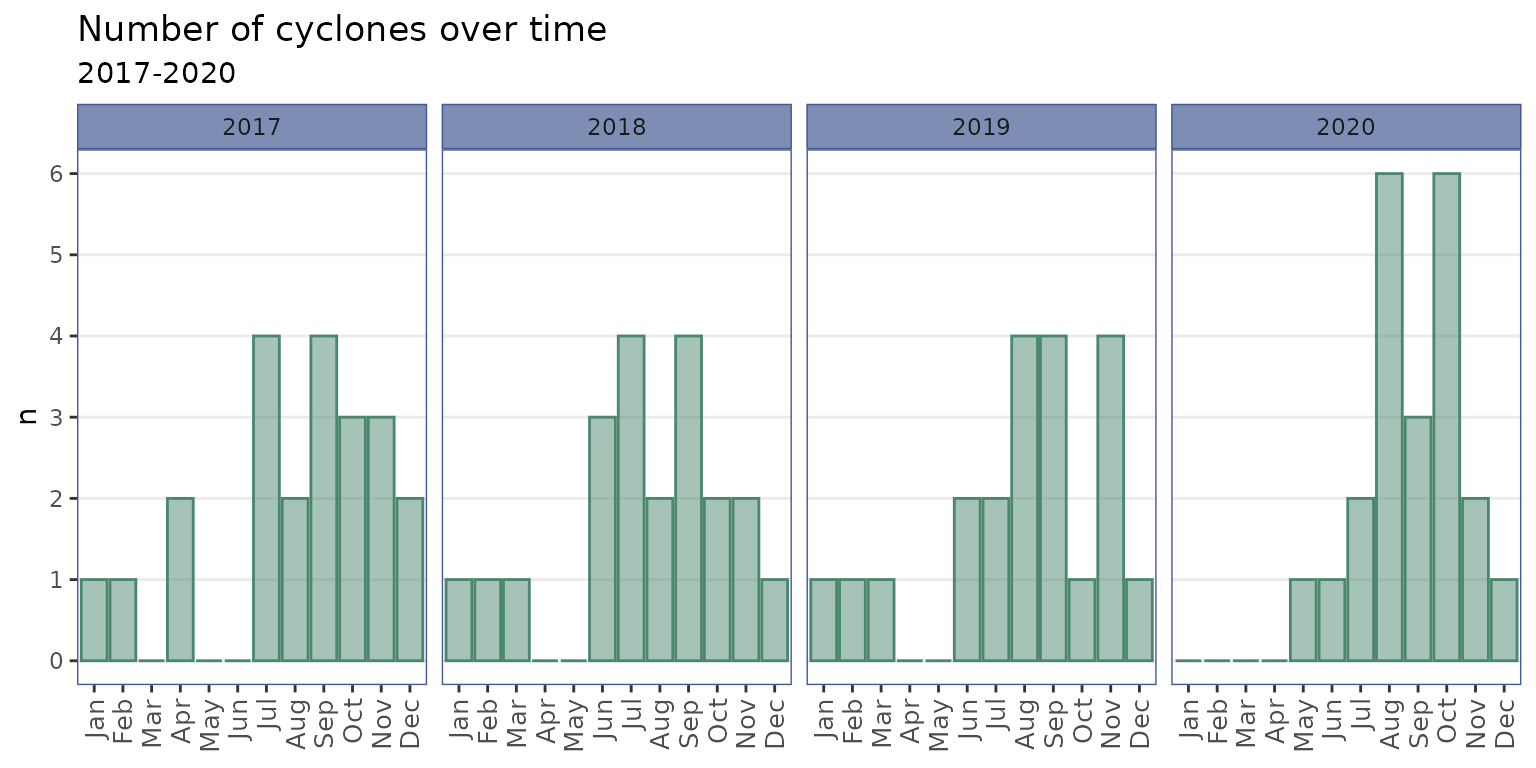
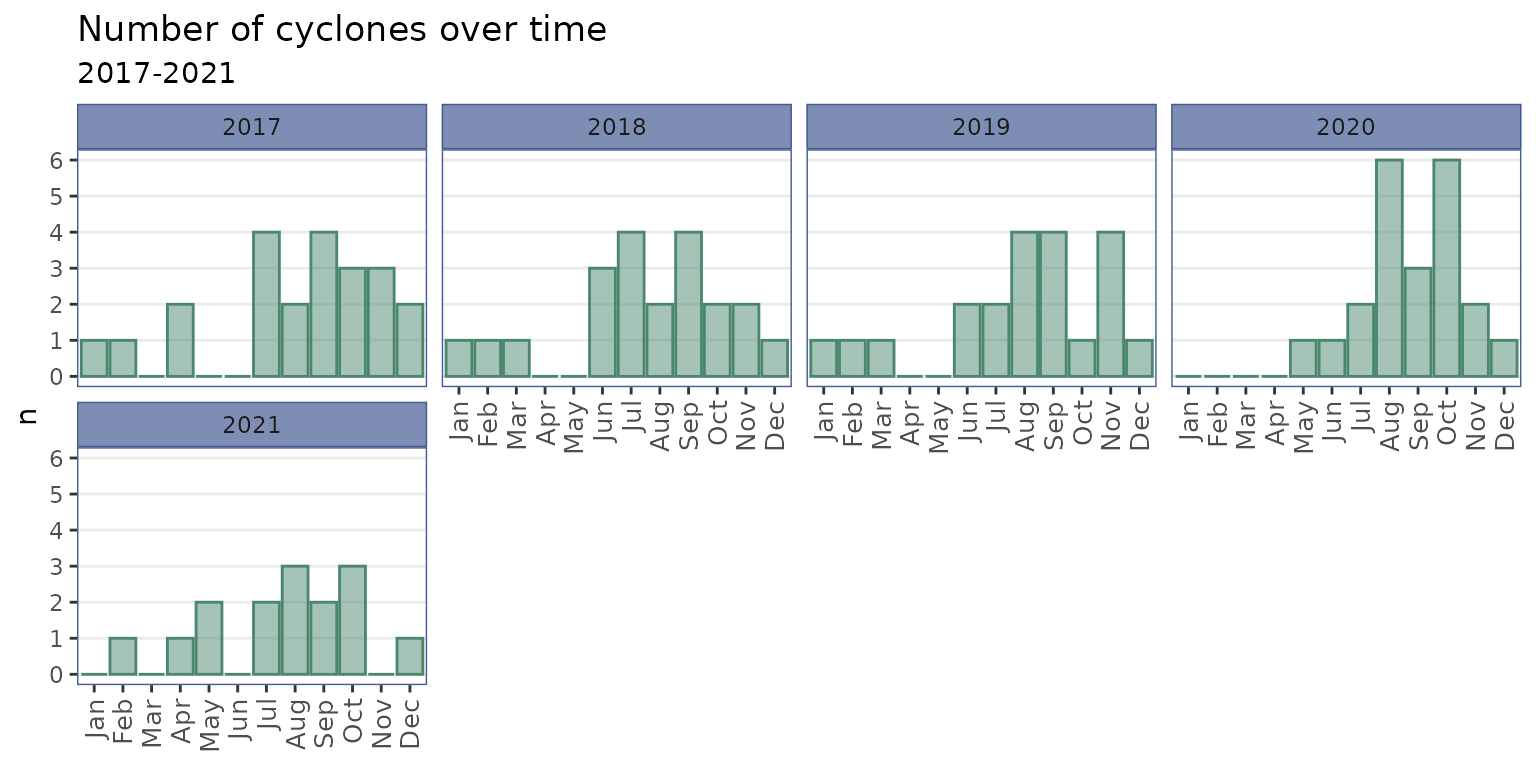
Deploying to gh-pages from @ panukatan/bagyo@0b04d9e236ba5311cccd494a6376987408167831 🚀

diff --git a/dev/articles/visualisation.html b/dev/articles/visualisation.html
@@ -99,7 +99,7 @@ those using the <code>tidyverse</code> packages.</p>
 <span>  <span class="fu"><a href="https://dplyr.tidyverse.org/reference/group_by.html" class="external-link">group_by</a></span><span class="op">(</span><span class="va">year</span><span class="op">)</span> <span class="op">|&gt;</span></span>
 <span>  <span class="fu"><a href="https://tidyr.tidyverse.org/reference/complete.html" class="external-link">complete</a></span><span class="op">(</span><span class="va">category_name</span><span class="op">)</span> <span class="op">|&gt;</span></span>
 <span>  <span class="fu"><a href="https://dplyr.tidyverse.org/reference/group_by.html" class="external-link">ungroup</a></span><span class="op">(</span><span class="op">)</span></span>
-<span><span class="co">#&gt; <span style="color: #949494;"># A tibble: 20 × 3</span></span></span>
+<span><span class="co">#&gt; <span style="color: #949494;"># A tibble: 25 × 3</span></span></span>
 <span><span class="co">#&gt;     year category_name             n</span></span>
 <span><span class="co">#&gt;    <span style="color: #949494; font-style: italic;">&lt;dbl&gt;</span> <span style="color: #949494; font-style: italic;">&lt;fct&gt;</span>                 <span style="color: #949494; font-style: italic;">&lt;int&gt;</span></span></span>
 <span><span class="co">#&gt; <span style="color: #BCBCBC;"> 1</span>  <span style="text-decoration: underline;">2</span>017 Tropical Depression       5</span></span>
@@ -112,28 +112,20 @@ those using the <code>tidyverse</code> packages.</p>
 <span><span class="co">#&gt; <span style="color: #BCBCBC;"> 8</span>  <span style="text-decoration: underline;">2</span>018 Severe Tropical Storm     4</span></span>
 <span><span class="co">#&gt; <span style="color: #BCBCBC;"> 9</span>  <span style="text-decoration: underline;">2</span>018 Typhoon                   6</span></span>
 <span><span class="co">#&gt; <span style="color: #BCBCBC;">10</span>  <span style="text-decoration: underline;">2</span>018 Super Typhoon            <span style="color: #BB0000;">NA</span></span></span>
-<span><span class="co">#&gt; <span style="color: #BCBCBC;">11</span>  <span style="text-decoration: underline;">2</span>019 Tropical Depression       8</span></span>
-<span><span class="co">#&gt; <span style="color: #BCBCBC;">12</span>  <span style="text-decoration: underline;">2</span>019 Tropical Storm            2</span></span>
-<span><span class="co">#&gt; <span style="color: #BCBCBC;">13</span>  <span style="text-decoration: underline;">2</span>019 Severe Tropical Storm     3</span></span>
-<span><span class="co">#&gt; <span style="color: #BCBCBC;">14</span>  <span style="text-decoration: underline;">2</span>019 Typhoon                   8</span></span>
-<span><span class="co">#&gt; <span style="color: #BCBCBC;">15</span>  <span style="text-decoration: underline;">2</span>019 Super Typhoon            <span style="color: #BB0000;">NA</span></span></span>
-<span><span class="co">#&gt; <span style="color: #BCBCBC;">16</span>  <span style="text-decoration: underline;">2</span>020 Tropical Depression       6</span></span>
-<span><span class="co">#&gt; <span style="color: #BCBCBC;">17</span>  <span style="text-decoration: underline;">2</span>020 Tropical Storm            7</span></span>
-<span><span class="co">#&gt; <span style="color: #BCBCBC;">18</span>  <span style="text-decoration: underline;">2</span>020 Severe Tropical Storm     3</span></span>
-<span><span class="co">#&gt; <span style="color: #BCBCBC;">19</span>  <span style="text-decoration: underline;">2</span>020 Typhoon                   4</span></span>
-<span><span class="co">#&gt; <span style="color: #BCBCBC;">20</span>  <span style="text-decoration: underline;">2</span>020 Super Typhoon             2</span></span></code></pre></div>
+<span><span class="co">#&gt; <span style="color: #949494;"># ℹ 15 more rows</span></span></span></code></pre></div>
 <div class="sourceCode" id="cb3"><pre class="downlit sourceCode r">
 <code class="sourceCode R"><span><span class="co">## Get yearly mean cyclone pressure and speed ----</span></span>
 <span><span class="va">bagyo</span> <span class="op">|&gt;</span></span>
 <span>  <span class="fu"><a href="https://dplyr.tidyverse.org/reference/group_by.html" class="external-link">group_by</a></span><span class="op">(</span><span class="va">year</span><span class="op">)</span> <span class="op">|&gt;</span></span>
 <span>  <span class="fu"><a href="https://dplyr.tidyverse.org/reference/summarise.html" class="external-link">summarise</a></span><span class="op">(</span>mean_pressure <span class="op">=</span> <span class="fu"><a href="https://rdrr.io/r/base/mean.html" class="external-link">mean</a></span><span class="op">(</span><span class="va">pressure</span><span class="op">)</span>, mean_speed <span class="op">=</span> <span class="fu"><a href="https://rdrr.io/r/base/mean.html" class="external-link">mean</a></span><span class="op">(</span><span class="va">speed</span><span class="op">)</span><span class="op">)</span></span>
-<span><span class="co">#&gt; <span style="color: #949494;"># A tibble: 4 × 3</span></span></span>
+<span><span class="co">#&gt; <span style="color: #949494;"># A tibble: 5 × 3</span></span></span>
 <span><span class="co">#&gt;    year mean_pressure mean_speed</span></span>
 <span><span class="co">#&gt;   <span style="color: #949494; font-style: italic;">&lt;dbl&gt;</span>         <span style="color: #949494; font-style: italic;">&lt;dbl&gt;</span>      <span style="color: #949494; font-style: italic;">&lt;dbl&gt;</span></span></span>
 <span><span class="co">#&gt; <span style="color: #BCBCBC;">1</span>  <span style="text-decoration: underline;">2</span>017          986.       88.0</span></span>
 <span><span class="co">#&gt; <span style="color: #BCBCBC;">2</span>  <span style="text-decoration: underline;">2</span>018          961.       66.7</span></span>
 <span><span class="co">#&gt; <span style="color: #BCBCBC;">3</span>  <span style="text-decoration: underline;">2</span>019          976.       59.0</span></span>
-<span><span class="co">#&gt; <span style="color: #BCBCBC;">4</span>  <span style="text-decoration: underline;">2</span>020          973.       62.0</span></span></code></pre></div>
+<span><span class="co">#&gt; <span style="color: #BCBCBC;">4</span>  <span style="text-decoration: underline;">2</span>020          973.       62.0</span></span>
+<span><span class="co">#&gt; <span style="color: #BCBCBC;">5</span>  <span style="text-decoration: underline;">2</span>021          972.       60.3</span></span></code></pre></div>
 <div class="sourceCode" id="cb4"><pre class="downlit sourceCode r">
 <code class="sourceCode R"><span><span class="co">## Get cyclone category mean pressure and speed ----</span></span>
 <span><span class="va">bagyo</span> <span class="op">|&gt;</span></span>
@@ -146,11 +138,11 @@ those using the <code>tidyverse</code> packages.</p>
 <span><span class="co">#&gt; <span style="color: #949494;"># A tibble: 5 × 4</span></span></span>
 <span><span class="co">#&gt;   category_name             n mean_pressure mean_speed</span></span>
 <span><span class="co">#&gt;   <span style="color: #949494; font-style: italic;">&lt;fct&gt;</span>                 <span style="color: #949494; font-style: italic;">&lt;int&gt;</span>         <span style="color: #949494; font-style: italic;">&lt;dbl&gt;</span>      <span style="color: #949494; font-style: italic;">&lt;dbl&gt;</span></span></span>
-<span><span class="co">#&gt; <span style="color: #BCBCBC;">1</span> Tropical Depression      23          996.       39.8</span></span>
-<span><span class="co">#&gt; <span style="color: #BCBCBC;">2</span> Tropical Storm           25          986.       61.6</span></span>
-<span><span class="co">#&gt; <span style="color: #BCBCBC;">3</span> Severe Tropical Storm    15          978.       75  </span></span>
-<span><span class="co">#&gt; <span style="color: #BCBCBC;">4</span> Typhoon                  21          941.      102. </span></span>
-<span><span class="co">#&gt; <span style="color: #BCBCBC;">5</span> Super Typhoon             2          908.      112.</span></span></code></pre></div>
+<span><span class="co">#&gt; <span style="color: #BCBCBC;">1</span> Tropical Depression      27          995.       39.3</span></span>
+<span><span class="co">#&gt; <span style="color: #BCBCBC;">2</span> Tropical Storm           29          987.       58.8</span></span>
+<span><span class="co">#&gt; <span style="color: #BCBCBC;">3</span> Severe Tropical Storm    17          979.       72.6</span></span>
+<span><span class="co">#&gt; <span style="color: #BCBCBC;">4</span> Typhoon                  23          943.       99.1</span></span>
+<span><span class="co">#&gt; <span style="color: #BCBCBC;">5</span> Super Typhoon             5          907       113</span></span></code></pre></div>
 </div>
 <div class="section level3">
 <h3 id="working-with-date-and-time-data">Working with date and time data<a class="anchor" aria-label="anchor" href="#working-with-date-and-time-data"></a>
@@ -164,11 +156,11 @@ those using the <code>tidyverse</code> packages.</p>
 <span><span class="co">#&gt; <span style="color: #949494;"># A tibble: 5 × 2</span></span></span>
 <span><span class="co">#&gt;   category_name         mean_duration  </span></span>
 <span><span class="co">#&gt;   <span style="color: #949494; font-style: italic;">&lt;fct&gt;</span>                 <span style="color: #949494; font-style: italic;">&lt;drtn&gt;</span>         </span></span>
-<span><span class="co">#&gt; <span style="color: #BCBCBC;">1</span> Tropical Depression    46.69565 hours</span></span>
-<span><span class="co">#&gt; <span style="color: #BCBCBC;">2</span> Tropical Storm         57.48000 hours</span></span>
-<span><span class="co">#&gt; <span style="color: #BCBCBC;">3</span> Severe Tropical Storm  79.13333 hours</span></span>
-<span><span class="co">#&gt; <span style="color: #BCBCBC;">4</span> Typhoon               106.66667 hours</span></span>
-<span><span class="co">#&gt; <span style="color: #BCBCBC;">5</span> Super Typhoon          77.50000 hours</span></span></code></pre></div>
+<span><span class="co">#&gt; <span style="color: #BCBCBC;">1</span> Tropical Depression    45.29630 hours</span></span>
+<span><span class="co">#&gt; <span style="color: #BCBCBC;">2</span> Tropical Storm         61.03448 hours</span></span>
+<span><span class="co">#&gt; <span style="color: #BCBCBC;">3</span> Severe Tropical Storm  81.29412 hours</span></span>
+<span><span class="co">#&gt; <span style="color: #BCBCBC;">4</span> Typhoon               110.04348 hours</span></span>
+<span><span class="co">#&gt; <span style="color: #BCBCBC;">5</span> Super Typhoon         115.60000 hours</span></span></code></pre></div>
 <div class="sourceCode" id="cb6"><pre class="downlit sourceCode r">
 <code class="sourceCode R"><span><span class="co">## Get number of cyclones per month by year ----</span></span>
 <span><span class="va">bagyo</span> <span class="op">|&gt;</span></span>
@@ -178,7 +170,7 @@ those using the <code>tidyverse</code> packages.</p>
 <span>  <span class="fu"><a href="https://dplyr.tidyverse.org/reference/group_by.html" class="external-link">ungroup</a></span><span class="op">(</span><span class="op">)</span> <span class="op">|&gt;</span></span>
 <span>  <span class="fu"><a href="https://tidyr.tidyverse.org/reference/complete.html" class="external-link">complete</a></span><span class="op">(</span><span class="va">month</span>, <span class="va">year</span>, fill <span class="op">=</span> <span class="fu"><a href="https://rdrr.io/r/base/list.html" class="external-link">list</a></span><span class="op">(</span>n <span class="op">=</span> <span class="fl">0</span><span class="op">)</span><span class="op">)</span> <span class="op">|&gt;</span></span>
 <span>  <span class="fu"><a href="https://dplyr.tidyverse.org/reference/arrange.html" class="external-link">arrange</a></span><span class="op">(</span><span class="va">year</span>, <span class="va">month</span><span class="op">)</span></span>
-<span><span class="co">#&gt; <span style="color: #949494;"># A tibble: 48 × 3</span></span></span>
+<span><span class="co">#&gt; <span style="color: #949494;"># A tibble: 60 × 3</span></span></span>
 <span><span class="co">#&gt;    month  year     n</span></span>
 <span><span class="co">#&gt;    <span style="color: #949494; font-style: italic;">&lt;ord&gt;</span> <span style="color: #949494; font-style: italic;">&lt;dbl&gt;</span> <span style="color: #949494; font-style: italic;">&lt;int&gt;</span></span></span>
 <span><span class="co">#&gt; <span style="color: #BCBCBC;"> 1</span> Jan    <span style="text-decoration: underline;">2</span>017     1</span></span>
@@ -191,7 +183,7 @@ those using the <code>tidyverse</code> packages.</p>
 <span><span class="co">#&gt; <span style="color: #BCBCBC;"> 8</span> Aug    <span style="text-decoration: underline;">2</span>017     2</span></span>
 <span><span class="co">#&gt; <span style="color: #BCBCBC;"> 9</span> Sep    <span style="text-decoration: underline;">2</span>017     4</span></span>
 <span><span class="co">#&gt; <span style="color: #BCBCBC;">10</span> Oct    <span style="text-decoration: underline;">2</span>017     3</span></span>
-<span><span class="co">#&gt; <span style="color: #949494;"># ℹ 38 more rows</span></span></span></code></pre></div>
+<span><span class="co">#&gt; <span style="color: #949494;"># ℹ 50 more rows</span></span></span></code></pre></div>
 </div>
 </div>
 <div class="section level2">
@@ -270,12 +262,12 @@ particularly those using the <code>tidyverse</code> and
 <span>    mapping <span class="op">=</span> <span class="fu"><a href="https://ggplot2.tidyverse.org/reference/aes.html" class="external-link">aes</a></span><span class="op">(</span>colour <span class="op">=</span> <span class="va">year</span><span class="op">)</span>, method <span class="op">=</span> <span class="st">"lm"</span>, se <span class="op">=</span> <span class="cn">FALSE</span>, linewidth <span class="op">=</span> <span class="fl">0.75</span></span>
 <span>  <span class="op">)</span> <span class="op">+</span></span>
 <span>  <span class="fu"><a href="https://ggplot2.tidyverse.org/reference/scale_manual.html" class="external-link">scale_colour_manual</a></span><span class="op">(</span></span>
-<span>    values <span class="op">=</span> <span class="fu"><a href="https://rdrr.io/r/base/c.html" class="external-link">c</a></span><span class="op">(</span><span class="st">"#9c5e60"</span>, <span class="st">"#4b876e"</span>, <span class="st">"#465b92"</span>, <span class="st">"#e5be72"</span><span class="op">)</span></span>
+<span>    values <span class="op">=</span> <span class="fu"><a href="https://rdrr.io/r/base/c.html" class="external-link">c</a></span><span class="op">(</span><span class="st">"#9c5e60"</span>, <span class="st">"#4b876e"</span>, <span class="st">"#465b92"</span>, <span class="st">"#e5be72"</span>, <span class="st">"#5d0505"</span><span class="op">)</span></span>
 <span>  <span class="op">)</span> <span class="op">+</span></span>
-<span>  <span class="fu"><a href="https://ggplot2.tidyverse.org/reference/scale_manual.html" class="external-link">scale_shape_manual</a></span><span class="op">(</span>values <span class="op">=</span> <span class="fl">15</span><span class="op">:</span><span class="fl">18</span><span class="op">)</span> <span class="op">+</span></span>
+<span>  <span class="fu"><a href="https://ggplot2.tidyverse.org/reference/scale_manual.html" class="external-link">scale_shape_manual</a></span><span class="op">(</span>values <span class="op">=</span> <span class="fl">15</span><span class="op">:</span><span class="fl">19</span><span class="op">)</span> <span class="op">+</span></span>
 <span>  <span class="fu"><a href="https://ggplot2.tidyverse.org/reference/labs.html" class="external-link">labs</a></span><span class="op">(</span></span>
 <span>    title <span class="op">=</span> <span class="st">"Maximum sustained wind speed by duration of cyclones"</span>,</span>
-<span>    subtitle <span class="op">=</span> <span class="st">"2017-2020"</span>,</span>
+<span>    subtitle <span class="op">=</span> <span class="st">"2017-2021"</span>,</span>
 <span>    x <span class="op">=</span> <span class="st">"speed (km/h)"</span>, y <span class="op">=</span> <span class="st">"duration (hours)"</span>,</span>
 <span>    colour <span class="op">=</span> <span class="st">"Year"</span>, shape <span class="op">=</span> <span class="st">"Year"</span></span>
 <span>  <span class="op">)</span> <span class="op">+</span></span>
@@ -300,7 +292,7 @@ particularly those using the <code>tidyverse</code> and
 <span>  <span class="fu"><a href="https://ggplot2.tidyverse.org/reference/scale_continuous.html" class="external-link">scale_y_continuous</a></span><span class="op">(</span>breaks <span class="op">=</span> <span class="fu"><a href="https://rdrr.io/r/base/seq.html" class="external-link">seq</a></span><span class="op">(</span>from <span class="op">=</span> <span class="fl">0</span>, to <span class="op">=</span> <span class="fl">6</span>, by <span class="op">=</span> <span class="fl">1</span><span class="op">)</span><span class="op">)</span> <span class="op">+</span></span>
 <span>  <span class="fu"><a href="https://ggplot2.tidyverse.org/reference/labs.html" class="external-link">labs</a></span><span class="op">(</span></span>
 <span>    title <span class="op">=</span> <span class="st">"Number of cyclones over time"</span>,</span>
-<span>    subtitle <span class="op">=</span> <span class="st">"2017-2020"</span>,</span>
+<span>    subtitle <span class="op">=</span> <span class="st">"2017-2021"</span>,</span>
 <span>    x <span class="op">=</span> <span class="cn">NULL</span>,</span>
 <span>    y <span class="op">=</span> <span class="st">"n"</span></span>
 <span>  <span class="op">)</span> <span class="op">+</span></span>
@@ -327,7 +319,7 @@ particularly those using the <code>tidyverse</code> and
 <span>  <span class="fu"><a href="https://ggplot2.tidyverse.org/reference/geom_boxplot.html" class="external-link">geom_boxplot</a></span><span class="op">(</span>colour <span class="op">=</span> <span class="st">"#4b876e"</span>, fill <span class="op">=</span> <span class="st">"#4b876e"</span>, alpha <span class="op">=</span> <span class="fl">0.5</span><span class="op">)</span> <span class="op">+</span></span>
 <span>  <span class="fu"><a href="https://ggplot2.tidyverse.org/reference/labs.html" class="external-link">labs</a></span><span class="op">(</span></span>
 <span>    title <span class="op">=</span> <span class="st">"Distribution of tropical cyclone maximum sustained wind speed"</span>,</span>
-<span>    subtitle <span class="op">=</span> <span class="st">"2017-2022"</span>,</span>
+<span>    subtitle <span class="op">=</span> <span class="st">"2017-2021"</span>,</span>
 <span>    x <span class="op">=</span> <span class="cn">NULL</span>, y <span class="op">=</span> <span class="st">"speed (km/h)"</span></span>
 <span>  <span class="op">)</span> <span class="op">+</span></span>
 <span>  <span class="fu"><a href="https://ggplot2.tidyverse.org/reference/ggtheme.html" class="external-link">theme_minimal</a></span><span class="op">(</span><span class="op">)</span> <span class="op">+</span></span>
@@ -344,7 +336,7 @@ particularly those using the <code>tidyverse</code> and
 <span>  <span class="op">)</span> <span class="op">+</span></span>
 <span>  <span class="fu"><a href="https://ggplot2.tidyverse.org/reference/labs.html" class="external-link">labs</a></span><span class="op">(</span></span>
 <span>    title <span class="op">=</span> <span class="st">"Distribution of tropical cyclone maximum sustained wind speed"</span>,</span>
-<span>    subtitle <span class="op">=</span> <span class="st">"2017-2022"</span>,</span>
+<span>    subtitle <span class="op">=</span> <span class="st">"2017-2021"</span>,</span>
 <span>    x <span class="op">=</span> <span class="cn">NULL</span>, y <span class="op">=</span> <span class="st">"speed (km/h)"</span></span>
 <span>  <span class="op">)</span> <span class="op">+</span></span>
 <span>  <span class="fu"><a href="https://ggplot2.tidyverse.org/reference/ggtheme.html" class="external-link">theme_minimal</a></span><span class="op">(</span><span class="op">)</span> <span class="op">+</span></span>
@@ -358,7 +350,7 @@ particularly those using the <code>tidyverse</code> and
 <span>  <span class="fu"><a href="https://ggplot2.tidyverse.org/reference/geom_jitter.html" class="external-link">geom_jitter</a></span><span class="op">(</span>colour <span class="op">=</span> <span class="st">"#4b876e"</span>, size <span class="op">=</span> <span class="fl">3</span>, width <span class="op">=</span> <span class="fl">0.2</span><span class="op">)</span> <span class="op">+</span></span>
 <span>  <span class="fu"><a href="https://ggplot2.tidyverse.org/reference/labs.html" class="external-link">labs</a></span><span class="op">(</span></span>
 <span>    title <span class="op">=</span> <span class="st">"Distribution of tropical cyclone maximum sustained wind speed"</span>,</span>
-<span>    subtitle <span class="op">=</span> <span class="st">"2017-2022"</span>,</span>
+<span>    subtitle <span class="op">=</span> <span class="st">"2017-2021"</span>,</span>
 <span>    x <span class="op">=</span> <span class="cn">NULL</span>, y <span class="op">=</span> <span class="st">"speed (km/h)"</span></span>
 <span>  <span class="op">)</span> <span class="op">+</span></span>
 <span>  <span class="fu"><a href="https://ggplot2.tidyverse.org/reference/ggtheme.html" class="external-link">theme_minimal</a></span><span class="op">(</span><span class="op">)</span> <span class="op">+</span></span>

diff --git a/dev/reference/find_bagyo.html b/dev/reference/find_bagyo.html
@@ -73,7 +73,7 @@ name/s to retrieve. Default to NULL to retrieve all categories</p></dd>
     <div class="section level2">
     <h2 id="ref-examples">Examples<a class="anchor" aria-label="anchor" href="#ref-examples"></a></h2>
     <div class="sourceCode"><pre class="sourceCode r"><code><span class="r-in"><span><span class="fu">find_bagyo</span><span class="op">(</span><span class="op">)</span></span></span>
-<span class="r-out co"><span class="r-pr">#&gt;</span> <span style="color: #949494;"># A tibble: 86 × 9</span></span>
+<span class="r-out co"><span class="r-pr">#&gt;</span> <span style="color: #949494;"># A tibble: 101 × 9</span></span>
 <span class="r-out co"><span class="r-pr">#&gt;</span>     year category_code category_name         name  rsmc_name start              </span>
 <span class="r-out co"><span class="r-pr">#&gt;</span>    <span style="color: #949494; font-style: italic;">&lt;dbl&gt;</span> <span style="color: #949494; font-style: italic;">&lt;fct&gt;</span>         <span style="color: #949494; font-style: italic;">&lt;fct&gt;</span>                 <span style="color: #949494; font-style: italic;">&lt;chr&gt;</span> <span style="color: #949494; font-style: italic;">&lt;chr&gt;</span>     <span style="color: #949494; font-style: italic;">&lt;dttm&gt;</span>             </span>
 <span class="r-out co"><span class="r-pr">#&gt;</span> <span style="color: #BCBCBC;"> 1</span>  <span style="text-decoration: underline;">2</span>017 TD            Tropical Depression   Auri… <span style="color: #BB0000;">NA</span>        2017-01-07 <span style="color: #949494;">08:00:00</span></span>
@@ -86,7 +86,7 @@ name/s to retrieve. Default to NULL to retrieve all categories</p></dd>
 <span class="r-out co"><span class="r-pr">#&gt;</span> <span style="color: #BCBCBC;"> 8</span>  <span style="text-decoration: underline;">2</span>017 TS            Tropical Storm        Huan… Haitang   2017-07-30 <span style="color: #949494;">02:00:00</span></span>
 <span class="r-out co"><span class="r-pr">#&gt;</span> <span style="color: #BCBCBC;"> 9</span>  <span style="text-decoration: underline;">2</span>017 STS           Severe Tropical Storm Isang Hato      2017-08-20 <span style="color: #949494;">08:00:00</span></span>
 <span class="r-out co"><span class="r-pr">#&gt;</span> <span style="color: #BCBCBC;">10</span>  <span style="text-decoration: underline;">2</span>017 TS            Tropical Storm        Joli… Pakhar    2017-08-24 <span style="color: #949494;">14:00:00</span></span>
-<span class="r-out co"><span class="r-pr">#&gt;</span> <span style="color: #949494;"># ℹ 76 more rows</span></span>
+<span class="r-out co"><span class="r-pr">#&gt;</span> <span style="color: #949494;"># ℹ 91 more rows</span></span>
 <span class="r-out co"><span class="r-pr">#&gt;</span> <span style="color: #949494;"># ℹ 3 more variables: end &lt;dttm&gt;, pressure &lt;int&gt;, speed &lt;int&gt;</span></span>
 <span class="r-in"><span><span class="fu">find_bagyo</span><span class="op">(</span>.year <span class="op">=</span> <span class="fl">2017</span><span class="op">)</span></span></span>
 <span class="r-out co"><span class="r-pr">#&gt;</span> <span style="color: #949494;"># A tibble: 22 × 9</span></span>
@@ -105,7 +105,7 @@ name/s to retrieve. Default to NULL to retrieve all categories</p></dd>
 <span class="r-out co"><span class="r-pr">#&gt;</span> <span style="color: #949494;"># ℹ 12 more rows</span></span>
 <span class="r-out co"><span class="r-pr">#&gt;</span> <span style="color: #949494;"># ℹ 3 more variables: end &lt;dttm&gt;, pressure &lt;int&gt;, speed &lt;int&gt;</span></span>
 <span class="r-in"><span><span class="fu">find_bagyo</span><span class="op">(</span>.category <span class="op">=</span> <span class="st">"TD"</span><span class="op">)</span></span></span>
-<span class="r-out co"><span class="r-pr">#&gt;</span> <span style="color: #949494;"># A tibble: 23 × 9</span></span>
+<span class="r-out co"><span class="r-pr">#&gt;</span> <span style="color: #949494;"># A tibble: 27 × 9</span></span>
 <span class="r-out co"><span class="r-pr">#&gt;</span>     year category_code category_name       name    rsmc_name start              </span>
 <span class="r-out co"><span class="r-pr">#&gt;</span>    <span style="color: #949494; font-style: italic;">&lt;dbl&gt;</span> <span style="color: #949494; font-style: italic;">&lt;fct&gt;</span>         <span style="color: #949494; font-style: italic;">&lt;fct&gt;</span>               <span style="color: #949494; font-style: italic;">&lt;chr&gt;</span>   <span style="color: #949494; font-style: italic;">&lt;chr&gt;</span>     <span style="color: #949494; font-style: italic;">&lt;dttm&gt;</span>             </span>
 <span class="r-out co"><span class="r-pr">#&gt;</span> <span style="color: #BCBCBC;"> 1</span>  <span style="text-decoration: underline;">2</span>017 TD            Tropical Depression Auring  <span style="color: #BB0000;">NA</span>        2017-01-07 <span style="color: #949494;">08:00:00</span></span>
@@ -118,7 +118,7 @@ name/s to retrieve. Default to NULL to retrieve all categories</p></dd>
 <span class="r-out co"><span class="r-pr">#&gt;</span> <span style="color: #BCBCBC;"> 8</span>  <span style="text-decoration: underline;">2</span>018 TD            Tropical Depression Neneng  Barijat   2018-09-08 <span style="color: #949494;">06:00:00</span></span>
 <span class="r-out co"><span class="r-pr">#&gt;</span> <span style="color: #BCBCBC;"> 9</span>  <span style="text-decoration: underline;">2</span>018 TD            Tropical Depression Usman   <span style="color: #BB0000;">NA</span>        2018-12-25 <span style="color: #949494;">10:00:00</span></span>
 <span class="r-out co"><span class="r-pr">#&gt;</span> <span style="color: #BCBCBC;">10</span>  <span style="text-decoration: underline;">2</span>019 TD            Tropical Depression Amang   <span style="color: #BB0000;">NA</span>        2019-01-19 <span style="color: #949494;">06:00:00</span></span>
-<span class="r-out co"><span class="r-pr">#&gt;</span> <span style="color: #949494;"># ℹ 13 more rows</span></span>
+<span class="r-out co"><span class="r-pr">#&gt;</span> <span style="color: #949494;"># ℹ 17 more rows</span></span>
 <span class="r-out co"><span class="r-pr">#&gt;</span> <span style="color: #949494;"># ℹ 3 more variables: end &lt;dttm&gt;, pressure &lt;int&gt;, speed &lt;int&gt;</span></span>
 <span class="r-in"><span><span class="fu">find_bagyo</span><span class="op">(</span>.year <span class="op">=</span> <span class="fl">2017</span>, .category <span class="op">=</span> <span class="st">"TD"</span><span class="op">)</span></span></span>
 <span class="r-out co"><span class="r-pr">#&gt;</span> <span style="color: #949494;"># A tibble: 5 × 9</span></span>

diff --git a/dev/index.html b/dev/index.html
@@ -93,7 +93,7 @@
 <span><span class="fu"><a href="https://rdrr.io/r/utils/data.html" class="external-link">data</a></span><span class="op">(</span>package <span class="op">=</span> <span class="st">"bagyo"</span><span class="op">)</span></span>
 <span></span>
 <span><span class="va">bagyo</span></span>
-<span><span class="co">#&gt; # A tibble: 86 × 9</span></span>
+<span><span class="co">#&gt; # A tibble: 101 × 9</span></span>
 <span><span class="co">#&gt;     year category_code category_name         name  rsmc_name start              </span></span>
 <span><span class="co">#&gt;    &lt;dbl&gt; &lt;fct&gt;         &lt;fct&gt;                 &lt;chr&gt; &lt;chr&gt;     &lt;dttm&gt;             </span></span>
 <span><span class="co">#&gt;  1  2017 TD            Tropical Depression   Auri… &lt;NA&gt;      2017-01-07 08:00:00</span></span>
@@ -106,7 +106,7 @@
 <span><span class="co">#&gt;  8  2017 TS            Tropical Storm        Huan… Haitang   2017-07-30 02:00:00</span></span>
 <span><span class="co">#&gt;  9  2017 STS           Severe Tropical Storm Isang Hato      2017-08-20 08:00:00</span></span>
 <span><span class="co">#&gt; 10  2017 TS            Tropical Storm        Joli… Pakhar    2017-08-24 14:00:00</span></span>
-<span><span class="co">#&gt; # ℹ 76 more rows</span></span>
+<span><span class="co">#&gt; # ℹ 91 more rows</span></span>
 <span><span class="co">#&gt; # ℹ 3 more variables: end &lt;dttm&gt;, pressure &lt;int&gt;, speed &lt;int&gt;</span></span></code></pre></div>
 </div>
 <div class="section level2">
@@ -130,11 +130,11 @@
 <span><span class="co">#&gt; # A tibble: 5 × 4</span></span>
 <span><span class="co">#&gt;   category_name             n mean_pressure mean_speed</span></span>
 <span><span class="co">#&gt;   &lt;fct&gt;                 &lt;int&gt;         &lt;dbl&gt;      &lt;dbl&gt;</span></span>
-<span><span class="co">#&gt; 1 Tropical Depression      23          996.       39.8</span></span>
-<span><span class="co">#&gt; 2 Tropical Storm           25          986.       61.6</span></span>
-<span><span class="co">#&gt; 3 Severe Tropical Storm    15          978.       75  </span></span>
-<span><span class="co">#&gt; 4 Typhoon                  21          941.      102. </span></span>
-<span><span class="co">#&gt; 5 Super Typhoon             2          908.      112.</span></span></code></pre></div>
+<span><span class="co">#&gt; 1 Tropical Depression      27          995.       39.3</span></span>
+<span><span class="co">#&gt; 2 Tropical Storm           29          987.       58.8</span></span>
+<span><span class="co">#&gt; 3 Severe Tropical Storm    17          979.       72.6</span></span>
+<span><span class="co">#&gt; 4 Typhoon                  23          943.       99.1</span></span>
+<span><span class="co">#&gt; 5 Super Typhoon             5          907       113</span></span></code></pre></div>
 </div>
 <div class="section level3">
 <h3 id="bagyo-is-useful-in-learning-how-to-work-with-dates">
@@ -149,11 +149,11 @@
 <span><span class="co">#&gt; # A tibble: 5 × 2</span></span>
 <span><span class="co">#&gt;   category_name         mean_duration  </span></span>
 <span><span class="co">#&gt;   &lt;fct&gt;                 &lt;drtn&gt;         </span></span>
-<span><span class="co">#&gt; 1 Tropical Depression    46.69565 hours</span></span>
-<span><span class="co">#&gt; 2 Tropical Storm         57.48000 hours</span></span>
-<span><span class="co">#&gt; 3 Severe Tropical Storm  79.13333 hours</span></span>
-<span><span class="co">#&gt; 4 Typhoon               106.66667 hours</span></span>
-<span><span class="co">#&gt; 5 Super Typhoon          77.50000 hours</span></span></code></pre></div>
+<span><span class="co">#&gt; 1 Tropical Depression    45.29630 hours</span></span>
+<span><span class="co">#&gt; 2 Tropical Storm         61.03448 hours</span></span>
+<span><span class="co">#&gt; 3 Severe Tropical Storm  81.29412 hours</span></span>
+<span><span class="co">#&gt; 4 Typhoon               110.04348 hours</span></span>
+<span><span class="co">#&gt; 5 Super Typhoon         115.60000 hours</span></span></code></pre></div>
 </div>
 <div class="section level3">
 <h3 id="bagyo-is-great-to-visualise">

diff --git a/dev/reference/bagyo.html b/dev/reference/bagyo.html
@@ -104,7 +104,7 @@ https://www.pagasa.dost.gov.ph/tropical-cyclone/publications/annual-report</p>
     <div class="section level2">
     <h2 id="ref-examples">Examples<a class="anchor" aria-label="anchor" href="#ref-examples"></a></h2>
     <div class="sourceCode"><pre class="sourceCode r"><code><span class="r-in"><span><span class="va">bagyo</span></span></span>
-<span class="r-out co"><span class="r-pr">#&gt;</span> <span style="color: #949494;"># A tibble: 86 × 9</span></span>
+<span class="r-out co"><span class="r-pr">#&gt;</span> <span style="color: #949494;"># A tibble: 101 × 9</span></span>
 <span class="r-out co"><span class="r-pr">#&gt;</span>     year category_code category_name         name  rsmc_name start              </span>
 <span class="r-out co"><span class="r-pr">#&gt;</span>    <span style="color: #949494; font-style: italic;">&lt;dbl&gt;</span> <span style="color: #949494; font-style: italic;">&lt;fct&gt;</span>         <span style="color: #949494; font-style: italic;">&lt;fct&gt;</span>                 <span style="color: #949494; font-style: italic;">&lt;chr&gt;</span> <span style="color: #949494; font-style: italic;">&lt;chr&gt;</span>     <span style="color: #949494; font-style: italic;">&lt;dttm&gt;</span>             </span>
 <span class="r-out co"><span class="r-pr">#&gt;</span> <span style="color: #BCBCBC;"> 1</span>  <span style="text-decoration: underline;">2</span>017 TD            Tropical Depression   Auri… <span style="color: #BB0000;">NA</span>        2017-01-07 <span style="color: #949494;">08:00:00</span></span>
@@ -117,7 +117,7 @@ https://www.pagasa.dost.gov.ph/tropical-cyclone/publications/annual-report</p>
 <span class="r-out co"><span class="r-pr">#&gt;</span> <span style="color: #BCBCBC;"> 8</span>  <span style="text-decoration: underline;">2</span>017 TS            Tropical Storm        Huan… Haitang   2017-07-30 <span style="color: #949494;">02:00:00</span></span>
 <span class="r-out co"><span class="r-pr">#&gt;</span> <span style="color: #BCBCBC;"> 9</span>  <span style="text-decoration: underline;">2</span>017 STS           Severe Tropical Storm Isang Hato      2017-08-20 <span style="color: #949494;">08:00:00</span></span>
 <span class="r-out co"><span class="r-pr">#&gt;</span> <span style="color: #BCBCBC;">10</span>  <span style="text-decoration: underline;">2</span>017 TS            Tropical Storm        Joli… Pakhar    2017-08-24 <span style="color: #949494;">14:00:00</span></span>
-<span class="r-out co"><span class="r-pr">#&gt;</span> <span style="color: #949494;"># ℹ 76 more rows</span></span>
+<span class="r-out co"><span class="r-pr">#&gt;</span> <span style="color: #949494;"># ℹ 91 more rows</span></span>
 <span class="r-out co"><span class="r-pr">#&gt;</span> <span style="color: #949494;"># ℹ 3 more variables: end &lt;dttm&gt;, pressure &lt;int&gt;, speed &lt;int&gt;</span></span>
 <span class="r-in"><span></span></span>
 </code></pre></div>

diff --git a/dev/articles/bagyo.html b/dev/articles/bagyo.html
@@ -186,14 +186,14 @@ of responsibility (PAR)</td>
 <p>This metadata can be viewed in R through a call to
 <code><a href="../reference/bagyo.html">?bagyo</a></code> in the R console.</p>
 <p>Whilst tropical cyclones have affected the Philippines far earlier
-than 2017 and more currently than 2020, official and publicly available
+than 2017 and more currently than 2021, official and publicly available
 data for the information described above is only available in the
 reports for years 2017 to 2020. Earlier documents of this annual
 reporting pre-2017 have been produced but are not available on the <a href="https://www.pagasa.dost.gov.ph/" class="external-link">PAGASA</a> website. These reports
 of the tropical cyclone season (re-started in 2019) are published within
 two years after the termination of the season. Hence, the most recent
-report is only up to 2020 for now.</p>
-<p>It is expected that reports for 2021 onwards will continue to be
+report is only up to 2021 for now.</p>
+<p>It is expected that reports for 2022 onwards will continue to be
 published and made available by PAGASA. As such, the <code>bagyo</code>
 package and the <code>bagyo</code> dataset within it will be updated
 accordingly. Continued efforts are also being taken to find sources of

diff --git a/dev/news/index.html b/dev/news/index.html
@@ -42,7 +42,9 @@
 
     <div class="section level2">
 <h2 class="pkg-version" data-toc-text="0.1.1.9000" id="bagyo-v0119000">bagyo v0.1.1.9000<a class="anchor" aria-label="anchor" href="#bagyo-v0119000"></a></h2>
-</div>
+<ul><li>added CRAN DOI badge</li>
+<li>added 2021 typhoon data</li>
+</ul></div>
     <div class="section level2">
 <h2 class="pkg-version" data-toc-text="0.1.1" id="bagyo-011">bagyo 0.1.1<a class="anchor" aria-label="anchor" href="#bagyo-011"></a></h2><p class="text-muted">CRAN release: 2024-04-18</p>
 <p>This is the first CRAN release of <code>bagyo</code>.</p>
